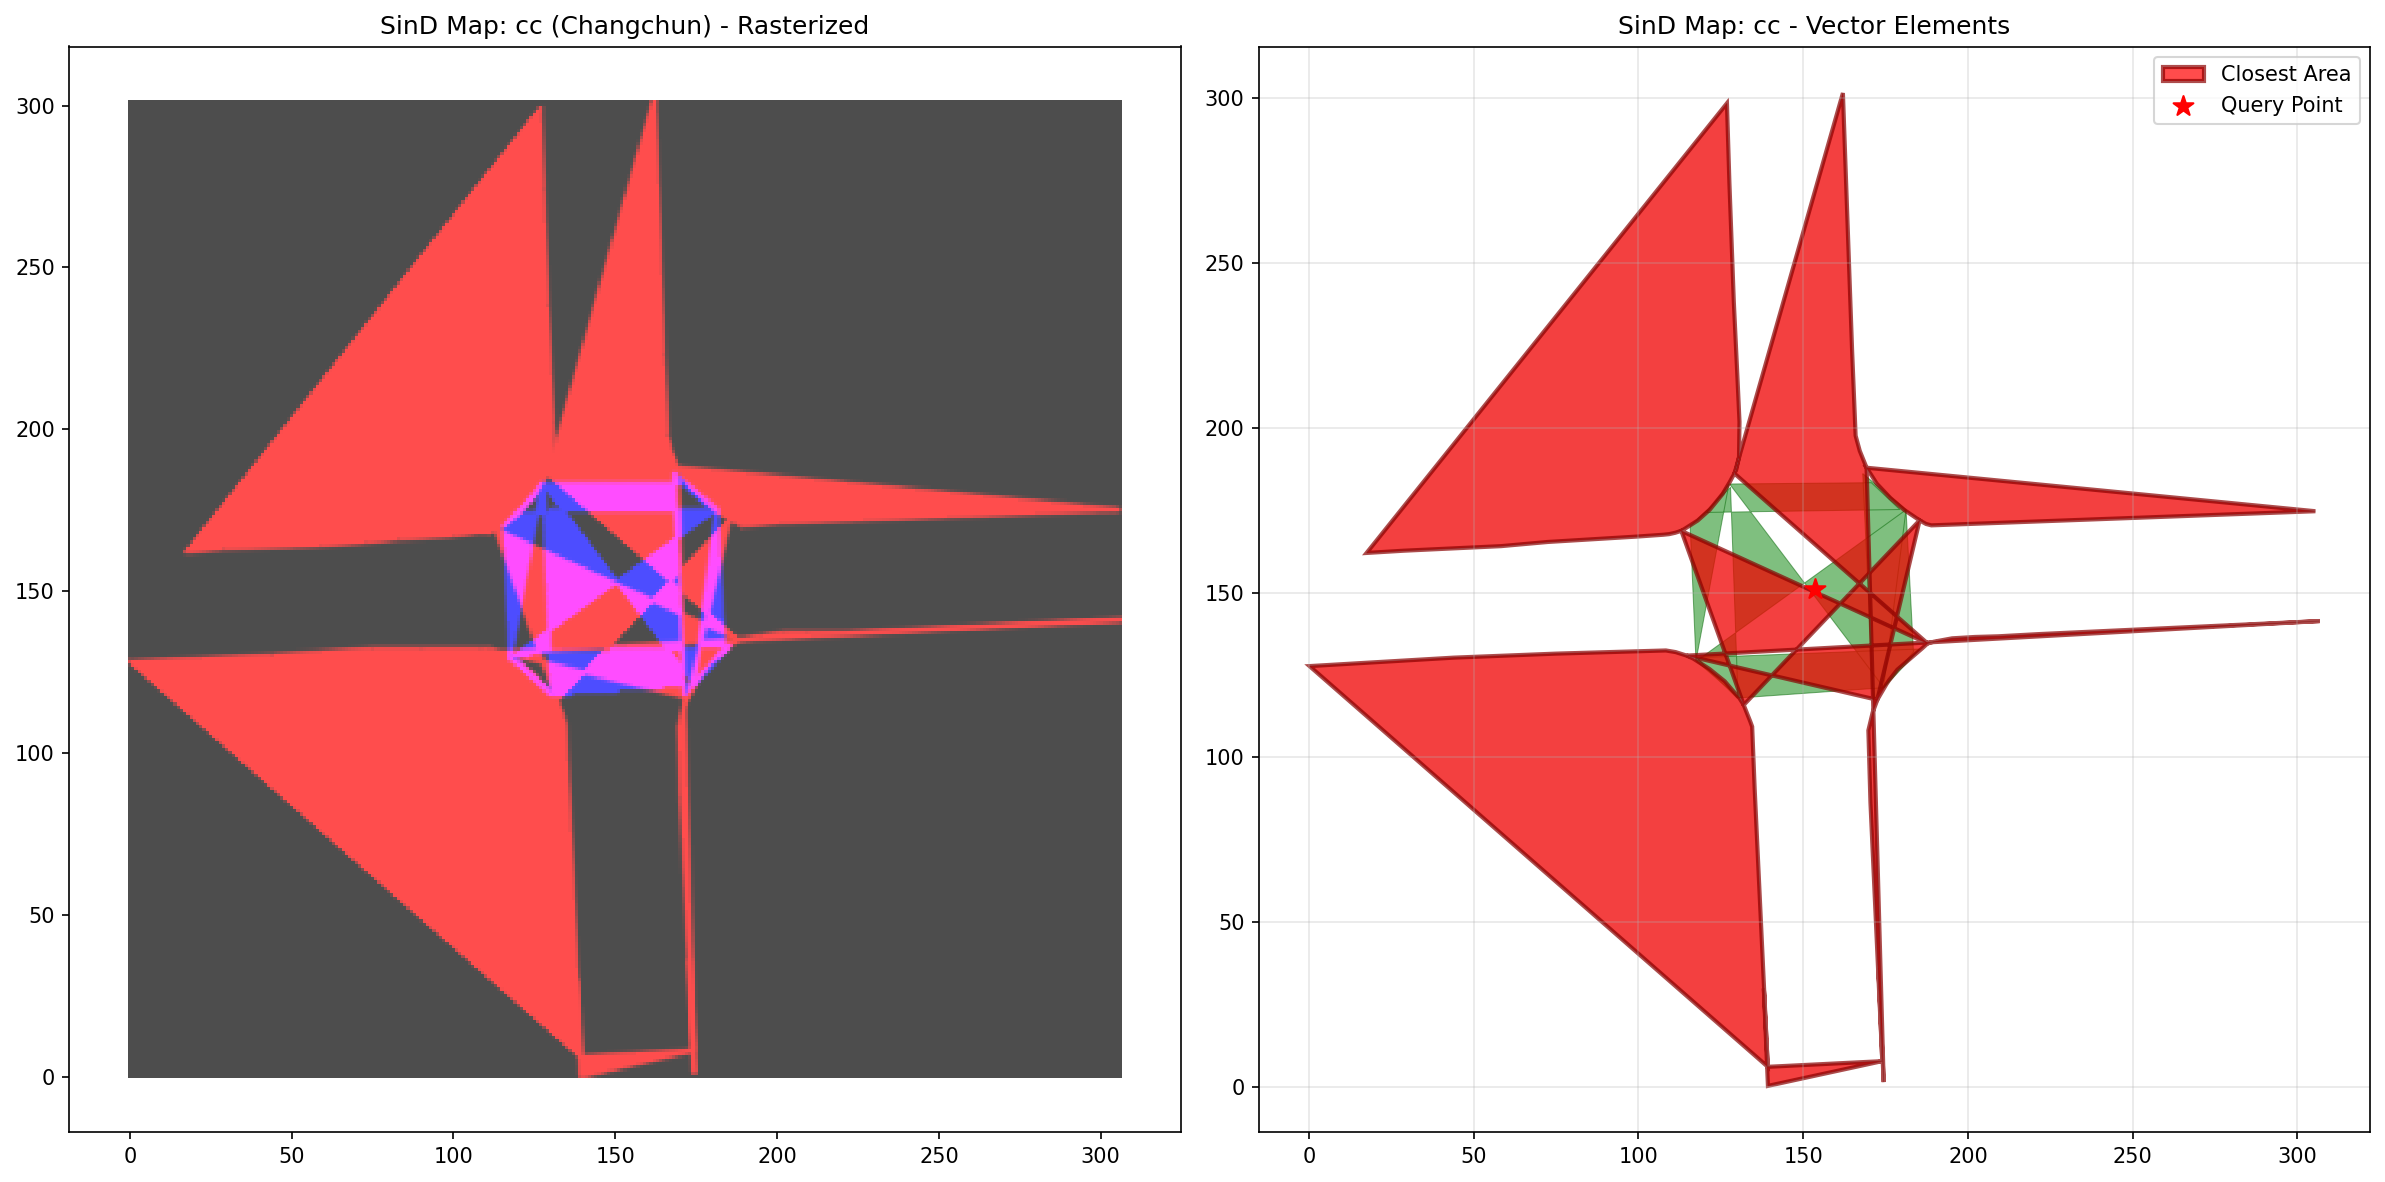
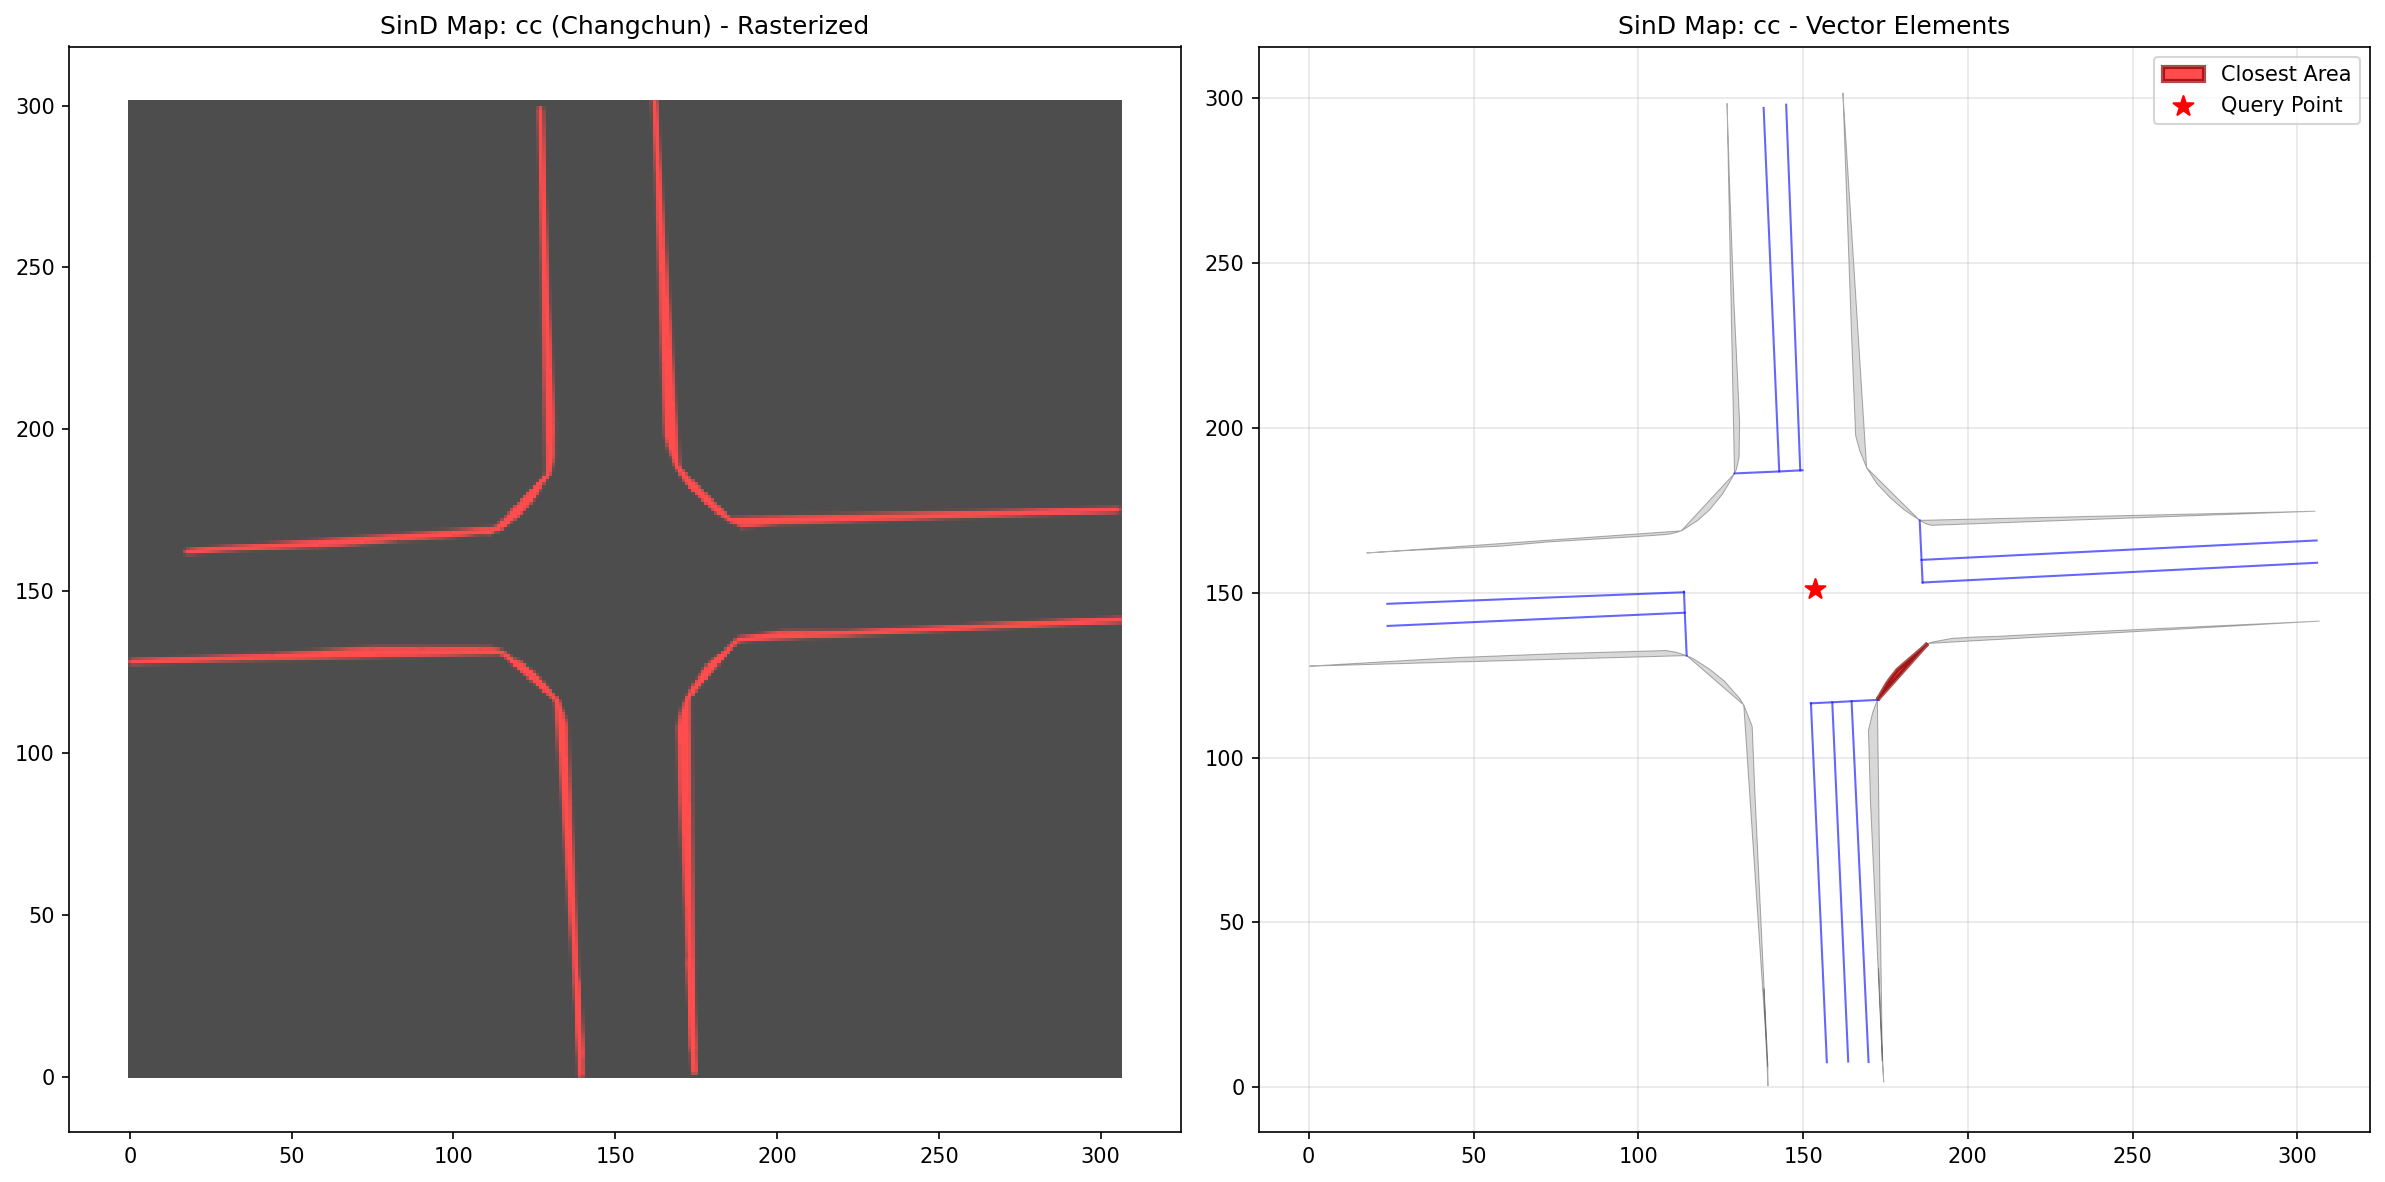
fix map visualization of cc

Changed region(s): [[0.5275, 0.0914, 0.9618, 0.9137], [0.0621, 0.0914, 0.4654, 0.9137]]

diff --git a/src/trajdata/dataset_specific/sind/sind_utils.py b/src/trajdata/dataset_specific/sind/sind_utils.py
@@ -99,7 +99,19 @@ class SindObject:
 
             tp_info_path = city_path / f"tp_info_{location}.pkl"
             frame_data_path = city_path / f"frame_data_{location}.pkl"
-            map_path = city_path / f"{location}_map.json"
+
+            # Check for map file: prefer output_json/ directory (correct format)
+            # over city directory (may have old flat format)
+            output_json_path = self.dataset_path / "output_json" / f"{location}_map.json"
+            city_map_path = city_path / f"{location}_map.json"
+
+            # Use output_json version if it exists, otherwise fall back to city directory
+            if output_json_path.exists():
+                map_path = output_json_path
+            elif city_map_path.exists():
+                map_path = city_map_path
+            else:
+                continue
 
             # Only store paths, don't load data yet
             if tp_info_path.exists() and map_path.exists():
@@ -369,11 +381,15 @@ def get_agent_metadata(
 def sind_map_to_vector_map(map_id: str, sind_map: Dict[str, Any]) -> VectorMap:
     """Convert SinD map data to trajdata VectorMap format.
 
-    SinD maps have the following structure:
-    - pedestrian_area: List of polygons (list of [x, y] points)
-    - drivable_area: List of polygons (list of [x, y] points)
-    - road_divider: List of polylines (list of [x, y] points)
-    - lane_divider: List of polylines (list of [x, y] points)
+    SinD maps have the following structure (from output_json/ directory):
+    - pedestrian_area: List of polylines (each is a list of [x, y] points)
+    - drivable_area: List of polylines (each is a list of [x, y] points)
+    - road_divider: List of polylines (each is a list of [x, y] points)
+    - lane_divider: List of polylines (each is a list of [x, y] points)
+
+    Note: Despite the name "drivable_area" and "pedestrian_area", these are
+    polylines (lines), not filled polygons. The drivable_area contains curbstone
+    lines that define the boundary of drivable areas.
 
     Args:
         map_id: Map identifier (format: "env_name:map_name")
@@ -387,178 +403,100 @@ def sind_map_to_vector_map(map_id: str, sind_map: Dict[str, Any]) -> VectorMap:
     extents_min = None
     extents_max = None
 
-    # Process drivable areas
+    # Process drivable areas (curbstone lines)
+    # Each polyline is closed to form a polygon representing a drivable area
     if "drivable_area" in sind_map:
-        drivable_area_data = sind_map["drivable_area"]
+        for idx, polyline_points in enumerate(sind_map["drivable_area"]):
+            if not polyline_points or len(polyline_points) < 3:
+                continue
 
-        # Check if data format is flat list of points (not list of polygons)
-        # Each point is [x, y], so if len(item) == 2 and all numbers, it's flat format
-        is_flat_format = False
-        if drivable_area_data and len(drivable_area_data) > 0:
-            first_item = drivable_area_data[0]
-            if len(first_item) == 2 and all(isinstance(x, (int, float)) for x in first_item):
-                is_flat_format = True
+            area_arr = np.array(polyline_points, dtype=np.float64)
 
-        if is_flat_format:
-            # Flat format: treat entire list as one polygon
-            area_arr = np.array(drivable_area_data, dtype=np.float64)
+            # Handle different input formats
+            if area_arr.ndim == 1:
+                # Single point
+                area_arr = area_arr.reshape(1, -1)
+            if area_arr.ndim != 2 or area_arr.shape[0] < 3:
+                # Need at least 3 points for a polygon
+                continue
+            if area_arr.shape[1] == 2:
+                # Add z=0 if only 2D points
+                area_arr = np.column_stack([area_arr, np.zeros(len(area_arr))])
+            elif area_arr.shape[1] != 3:
+                # Skip if not 2D or 3D
+                continue
 
-            # Need at least 3 points for a polygon
-            if area_arr.shape[0] >= 3:
-                if area_arr.shape[1] == 2:
-                    # Add z=0 if only 2D points
-                    area_arr = np.column_stack([area_arr, np.zeros(len(area_arr))])
+            # Close the polyline to form a polygon if not already closed
+            if not np.allclose(area_arr[0], area_arr[-1]):
+                area_arr = np.vstack([area_arr, area_arr[0]])
 
-                # Close the polygon if not already closed
-                if not np.allclose(area_arr[0], area_arr[-1]):
-                    area_arr = np.vstack([area_arr, area_arr[0]])
+            # Update extents
+            if extents_min is None:
+                extents_min = area_arr.min(0)
+                extents_max = area_arr.max(0)
+            else:
+                extents_min = np.minimum(extents_min, area_arr.min(0))
+                extents_max = np.maximum(extents_max, area_arr.max(0))
 
-                # Update extents
-                if extents_min is None:
-                    extents_min = area_arr.min(0)
-                    extents_max = area_arr.max(0)
-                else:
-                    extents_min = np.minimum(extents_min, area_arr.min(0))
-                    extents_max = np.maximum(extents_max, area_arr.max(0))
-
-                vector_map.add_map_element(
-                    RoadArea(
-                        id=f"RoadArea_0",
-                        exterior_polygon=Polyline(area_arr),
-                    )
+            vector_map.add_map_element(
+                RoadArea(
+                    id=f"RoadArea_{idx}",
+                    exterior_polygon=Polyline(area_arr),
                 )
-        else:
-            # Polygon list format (original expected format)
-            for idx, area_points in enumerate(sind_map["drivable_area"]):
-                if not area_points or len(area_points) < 3:
-                    continue
-
-                area_arr = np.array(area_points, dtype=np.float64)
-
-                # Handle different input formats
-                if area_arr.ndim == 1:
-                    # Single point
-                    area_arr = area_arr.reshape(1, -1)
-                if area_arr.ndim != 2 or area_arr.shape[0] < 3:
-                    # Need at least 3 points for a polygon
-                    continue
-                if area_arr.shape[1] == 2:
-                    # Add z=0 if only 2D points
-                    area_arr = np.column_stack([area_arr, np.zeros(len(area_arr))])
-                elif area_arr.shape[1] != 3:
-                    # Skip if not 2D or 3D
-                    continue
-
-                # Close the polygon if not already closed
-                if not np.allclose(area_arr[0], area_arr[-1]):
-                    area_arr = np.vstack([area_arr, area_arr[0]])
-
-                # Update extents
-                if extents_min is None:
-                    extents_min = area_arr.min(0)
-                    extents_max = area_arr.max(0)
-                else:
-                    extents_min = np.minimum(extents_min, area_arr.min(0))
-                    extents_max = np.maximum(extents_max, area_arr.max(0))
-
-                vector_map.add_map_element(
-                    RoadArea(
-                        id=f"RoadArea_{idx}",
-                        exterior_polygon=Polyline(area_arr),
-                    )
-                )
+            )
 
     # Process pedestrian areas
+    # Each polyline is closed to form a polygon representing a pedestrian walkway
     if "pedestrian_area" in sind_map:
-        pedestrian_area_data = sind_map["pedestrian_area"]
+        for idx, polyline_points in enumerate(sind_map["pedestrian_area"]):
+            if not polyline_points or len(polyline_points) < 3:
+                continue
 
-        # Check if data format is flat list of points (not list of polygons)
-        # Each point is [x, y], so if len(item) == 2 and all numbers, it's flat format
-        is_flat_format = False
-        if pedestrian_area_data and len(pedestrian_area_data) > 0:
-            first_item = pedestrian_area_data[0]
-            if len(first_item) == 2 and all(isinstance(x, (int, float)) for x in first_item):
-                is_flat_format = True
+            area_arr = np.array(polyline_points, dtype=np.float64)
 
-        if is_flat_format:
-            # Flat format: treat entire list as one polygon
-            area_arr = np.array(pedestrian_area_data, dtype=np.float64)
+            # Handle different input formats
+            if area_arr.ndim == 1:
+                # Single point
+                area_arr = area_arr.reshape(1, -1)
+            if area_arr.ndim != 2 or area_arr.shape[0] < 3:
+                # Need at least 3 points for a polygon
+                continue
+            if area_arr.shape[1] == 2:
+                # Add z=0 if only 2D points
+                area_arr = np.column_stack([area_arr, np.zeros(len(area_arr))])
+            elif area_arr.shape[1] != 3:
+                # Skip if not 2D or 3D
+                continue
 
-            # Need at least 3 points for a polygon
-            if area_arr.shape[0] >= 3:
-                if area_arr.shape[1] == 2:
-                    # Add z=0 if only 2D points
-                    area_arr = np.column_stack([area_arr, np.zeros(len(area_arr))])
+            # Close the polyline to form a polygon if not already closed
+            if not np.allclose(area_arr[0], area_arr[-1]):
+                area_arr = np.vstack([area_arr, area_arr[0]])
 
-                # Close the polygon if not already closed
-                if not np.allclose(area_arr[0], area_arr[-1]):
-                    area_arr = np.vstack([area_arr, area_arr[0]])
+            # Update extents
+            if extents_min is None:
+                extents_min = area_arr.min(0)
+                extents_max = area_arr.max(0)
+            else:
+                extents_min = np.minimum(extents_min, area_arr.min(0))
+                extents_max = np.maximum(extents_max, area_arr.max(0))
 
-                # Update extents
-                if extents_min is None:
-                    extents_min = area_arr.min(0)
-                    extents_max = area_arr.max(0)
-                else:
-                    extents_min = np.minimum(extents_min, area_arr.min(0))
-                    extents_max = np.maximum(extents_max, area_arr.max(0))
-
-                vector_map.add_map_element(
-                    PedWalkway(
-                        id=f"PedWalkway_0",
-                        polygon=Polyline(area_arr),
-                    )
+            vector_map.add_map_element(
+                PedWalkway(
+                    id=f"PedWalkway_{idx}",
+                    polygon=Polyline(area_arr),
                 )
-        else:
-            # Polygon list format (original expected format)
-            for idx, area_points in enumerate(sind_map["pedestrian_area"]):
-                if not area_points or len(area_points) < 3:
-                    continue
+            )
 
-                area_arr = np.array(area_points, dtype=np.float64)
-
-                # Handle different input formats
-                if area_arr.ndim == 1:
-                    # Single point
-                    area_arr = area_arr.reshape(1, -1)
-                if area_arr.ndim != 2 or area_arr.shape[0] < 3:
-                    # Need at least 3 points for a polygon
-                    continue
-                if area_arr.shape[1] == 2:
-                    # Add z=0 if only 2D points
-                    area_arr = np.column_stack([area_arr, np.zeros(len(area_arr))])
-                elif area_arr.shape[1] != 3:
-                    # Skip if not 2D or 3D
-                    continue
-
-                # Close the polygon if not already closed
-                if not np.allclose(area_arr[0], area_arr[-1]):
-                    area_arr = np.vstack([area_arr, area_arr[0]])
-
-                # Update extents
-                if extents_min is None:
-                    extents_min = area_arr.min(0)
-                    extents_max = area_arr.max(0)
-                else:
-                    extents_min = np.minimum(extents_min, area_arr.min(0))
-                    extents_max = np.maximum(extents_max, area_arr.max(0))
-
-                vector_map.add_map_element(
-                    PedWalkway(
-                        id=f"PedWalkway_{idx}",
-                        polygon=Polyline(area_arr),
-                    )
-                )
-
-    # Convert road_divider and lane_divider to simple lanes for spatial indexing
-    # These are not true lanes with connectivity, but enable KDTree construction
+    # Process road_divider and lane_divider as RoadLanes
+    # These are polylines (lines), not polygons
     lane_idx = 0
     for divider_name, divider_key in [("road_divider", "road_divider"), ("lane_divider", "lane_divider")]:
         if divider_key in sind_map:
-            for idx, line_points in enumerate(sind_map[divider_key]):
-                if not line_points:
+            for idx, polyline_points in enumerate(sind_map[divider_key]):
+                if not polyline_points:
                     continue
 
-                line_arr = np.array(line_points, dtype=np.float64)
+                line_arr = np.array(polyline_points, dtype=np.float64)
 
                 # Handle different input formats
                 if line_arr.ndim == 1:

diff --git a/SinD_integration_test_scripts/test1_map_visualization.py b/SinD_integration_test_scripts/test1_map_visualization.py
@@ -82,6 +82,7 @@ def main():
     print(f"  Extent: {vec_map.extent}")
     print(f"  Number of RoadAreas: {len(vec_map.elements[MapElementType.ROAD_AREA])}")
     print(f"  Number of PedWalkways: {len(vec_map.elements[MapElementType.PED_WALKWAY])}")
+    print(f"  Number of RoadLanes: {len(vec_map.elements[MapElementType.ROAD_LANE])}")
 
     # Rasterize the map using raster_utils which supports RoadAreas and PedWalkways
     print(f"\nRasterizing Map...")
@@ -130,6 +131,15 @@ def main():
         raster_pts = map_utils.transform_points(polygon_pts, raster_from_world)
         ax2.fill(raster_pts[:, 0], raster_pts[:, 1],
                  alpha=0.5, color='green', edgecolor='darkgreen', linewidth=0.5)
+
+    # Draw all road lanes (from road_divider and lane_divider)
+    print("Drawing road lanes...")
+    road_lanes = vec_map.elements[MapElementType.ROAD_LANE]
+    for lane_id, road_lane in road_lanes.items():
+        center_pts = road_lane.center.xy
+        raster_pts = map_utils.transform_points(center_pts, raster_from_world)
+        ax2.plot(raster_pts[:, 0], raster_pts[:, 1],
+                 alpha=0.6, color='blue', linewidth=1.0, linestyle='-')
 
     # Query example: Pick a random point and find closest area
     if len(road_areas) > 0:
